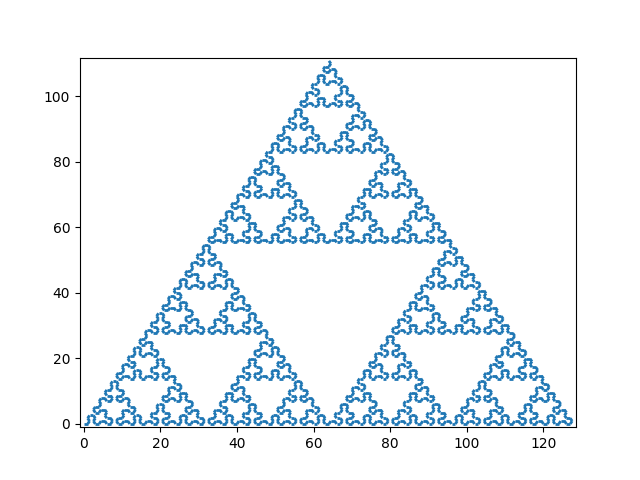
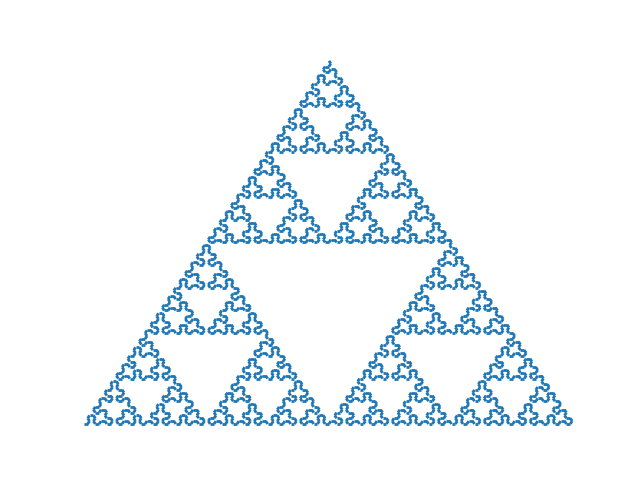
border

diff --git a/lsys.py b/lsys.py
@@ -87,6 +87,7 @@ class Turtle:
         ax.set_ylim(segs[:,:,1].min(axis=None)-1,
                     segs[:,:,1].max(axis=None)+1)
         ax.add_collection(lc)
+        plt.axis('off')
         plt.show()
         
     
@@ -188,7 +189,7 @@ def fern():
     return LSystem('X', rules, actions)
     
 def main():
-    lsys = sierpinski_arrowhead()
+    lsys = fern()
     lsys.expand(7)
     turtle = lsys.render()
     turtle.plot()
